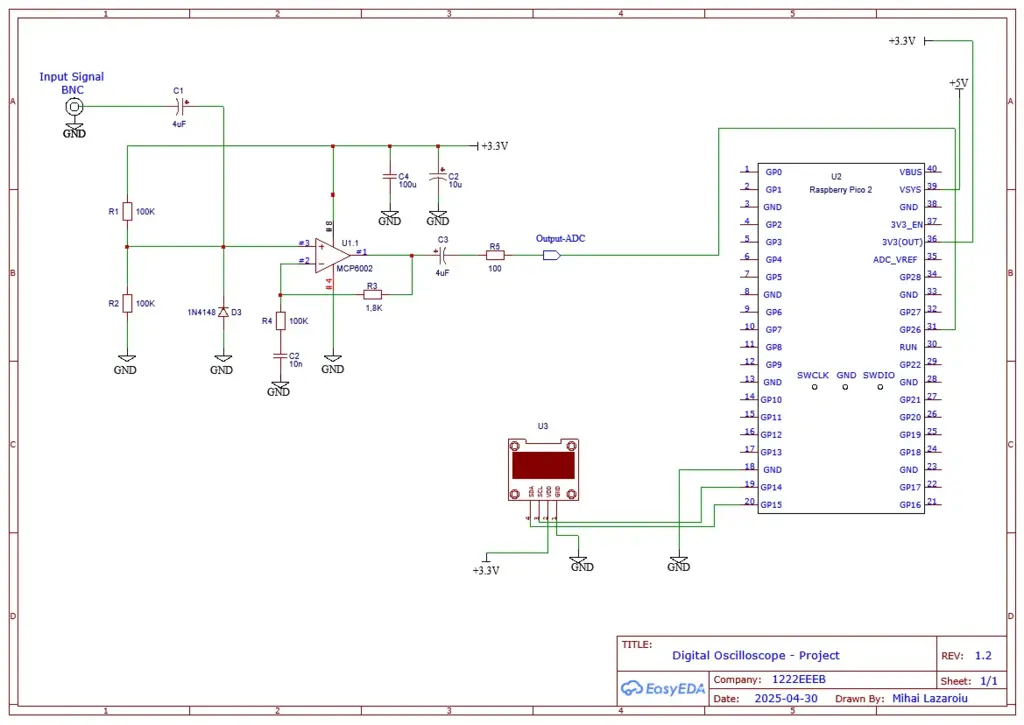
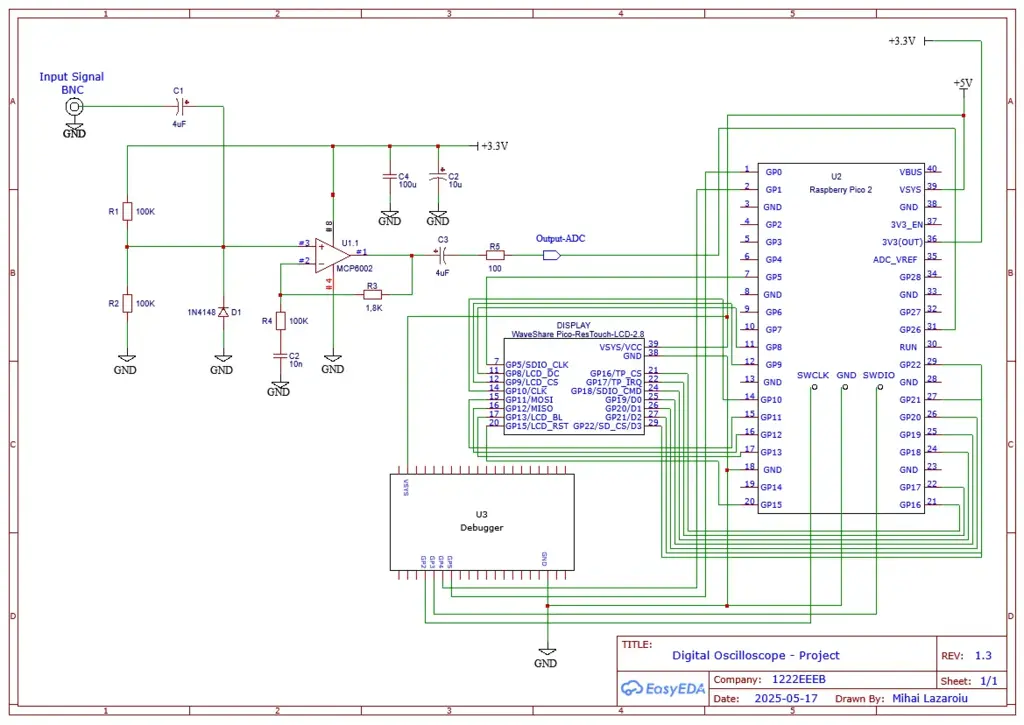
hardware milestone (#236)
* hardware milestone

* svg added

Changed region(s): [[0.375, 0.2124, 0.9688, 0.9407], [0.9062, 0.0607, 0.9688, 0.3338], [0.7812, 0.9407, 0.8125, 0.971]]

diff --git a/website/versioned_docs/version-fils_en/project/2025/mihai.lazaroiu1402/index.md b/website/versioned_docs/version-fils_en/project/2025/mihai.lazaroiu1402/index.md
@@ -56,7 +56,12 @@ Power setup:
 ---
 
 ## Log
+### Week 12
+- Moved my hardware from the breadboard to a protoboard
 
+### Week 11
+- Decided on a screen to use for the final hardware iteration of the project
+- Developed a working program that receives ADC data and displays it on the screen
 
 ### Week 10
 - Wrote the documentation
@@ -97,7 +102,8 @@ Power setup:
 - 1x Op-amp (MCP6002, non-inverting configuration)
 - Power source
 - Raspberry Pi Pico 2
-- Display
+- Raspberry Pi Pico H
+- Display: WaveShare Pico-ResTouch-LCD-2.8
 - Probe
 
 ### Function of Components
@@ -125,13 +131,23 @@ Power setup:
 **Signal on screen:**  
 ![Display Demo](pictures/screen_demo.webp)
 
+### Final Hardware Photos
+
+**Digital Oscilloscope Unit:**
+![Top View](pictures/topview.webp)
+
+**Side View:**
+![Side View](pictures/sideview.webp)
+
+**Demo:**
+![Demo](pictures/demo.webp)
 ---
 
 ### Schematics
 
 The connections of the components described previously can be seen on the following electric diagram.
 
-![schematics](pictures/hardware_schematic.webp)
+![schematics](pictures/hardware_schematic.svg)
 
 ---
 
@@ -154,7 +170,7 @@ The connections of the components described previously can be seen on the follow
 | [Oscilloscope Probe](https://www.virtins.com/P6060.shtml) | Signal acquisition | [79.99 RON](https://www.optimusdigital.ro/accesorii/1017-sonda-de-osciloscop-p6060-de-60-mhz.html) |
 | [Raspberry Pi Pico 2](https://datasheets.raspberrypi.com/pico/pico-2-datasheet.pdf) | Microcontroller unit (MPU) | [39.66 RON](https://ardushop.ro/ro/raspberry-pi/2453-raspberry-pi-pico-2-5056561803951.html) |
 | [Raspberry Pi Pico H](https://www.raspberrypi.com/documentation/microcontrollers/pico-series.html) | Debugging | [42.74 RON](https://www.optimusdigital.ro/ro/placi-raspberry-pi/12393-raspberry-pi-pico-h.html) |
-| [Display OLED 1.3" (Prototype)](https://www.mouser.com/datasheet/2/1398/Soldered_333099-3395096.pdf) | Shows signal and parameters | [20.99 RON](https://ardushop.ro/ro/display-uri-si-led-uri/1577-display-oled-096-i2c-albastru-jmd096d-1-6427854023469.html) |
+| [WaveShare Pico-ResTouch-LCD-2.8](https://www.waveshare.com/wiki/Pico-ResTouch-LCD-2.8) | Shows signal and parameters | [86.11 RON](https://www.emag.ro/ecran-lcd-tft-tactil-waveshare-2-8-inch-320x240-compatibil-cu-raspberry-pi-pico-restouch-lcd-2-8waveshare19804/pd/DBJZXQMBM/) |
 | [IC Socket](https://www.mouser.com/pdfDocs/te-connectivity-dip-socket-data.pdf?srsltid=AfmBOorTl-JuFRXVDn0Gy8AO-NJMjdgZ-fLtzpp4Q_E8__QewjH7AlPZ) | Socket for op-amp | [1.37 RON](https://sigmanortec.ro/soclu-dip-8-pini) |
 | [Header Pins](https://voron.ua/files/pdf/razjem/zl201.pdf) | Connects Raspberry Pico | [0.95 RON](https://www.adelaida.ro/bareta-20-pini-zl201-20g.html) |
 | [Breadboard + Prototype Power Source](https://microcontrollerslab.com/mb102-breadboard-power-supply-module-pinout-and-how-to-use-it/) | Prototyping circuit | [25.57 RON](https://sigmanortec.ro/Kit-Breadboard-MB102-Sursa-Fire-dupont-p136264993) |
